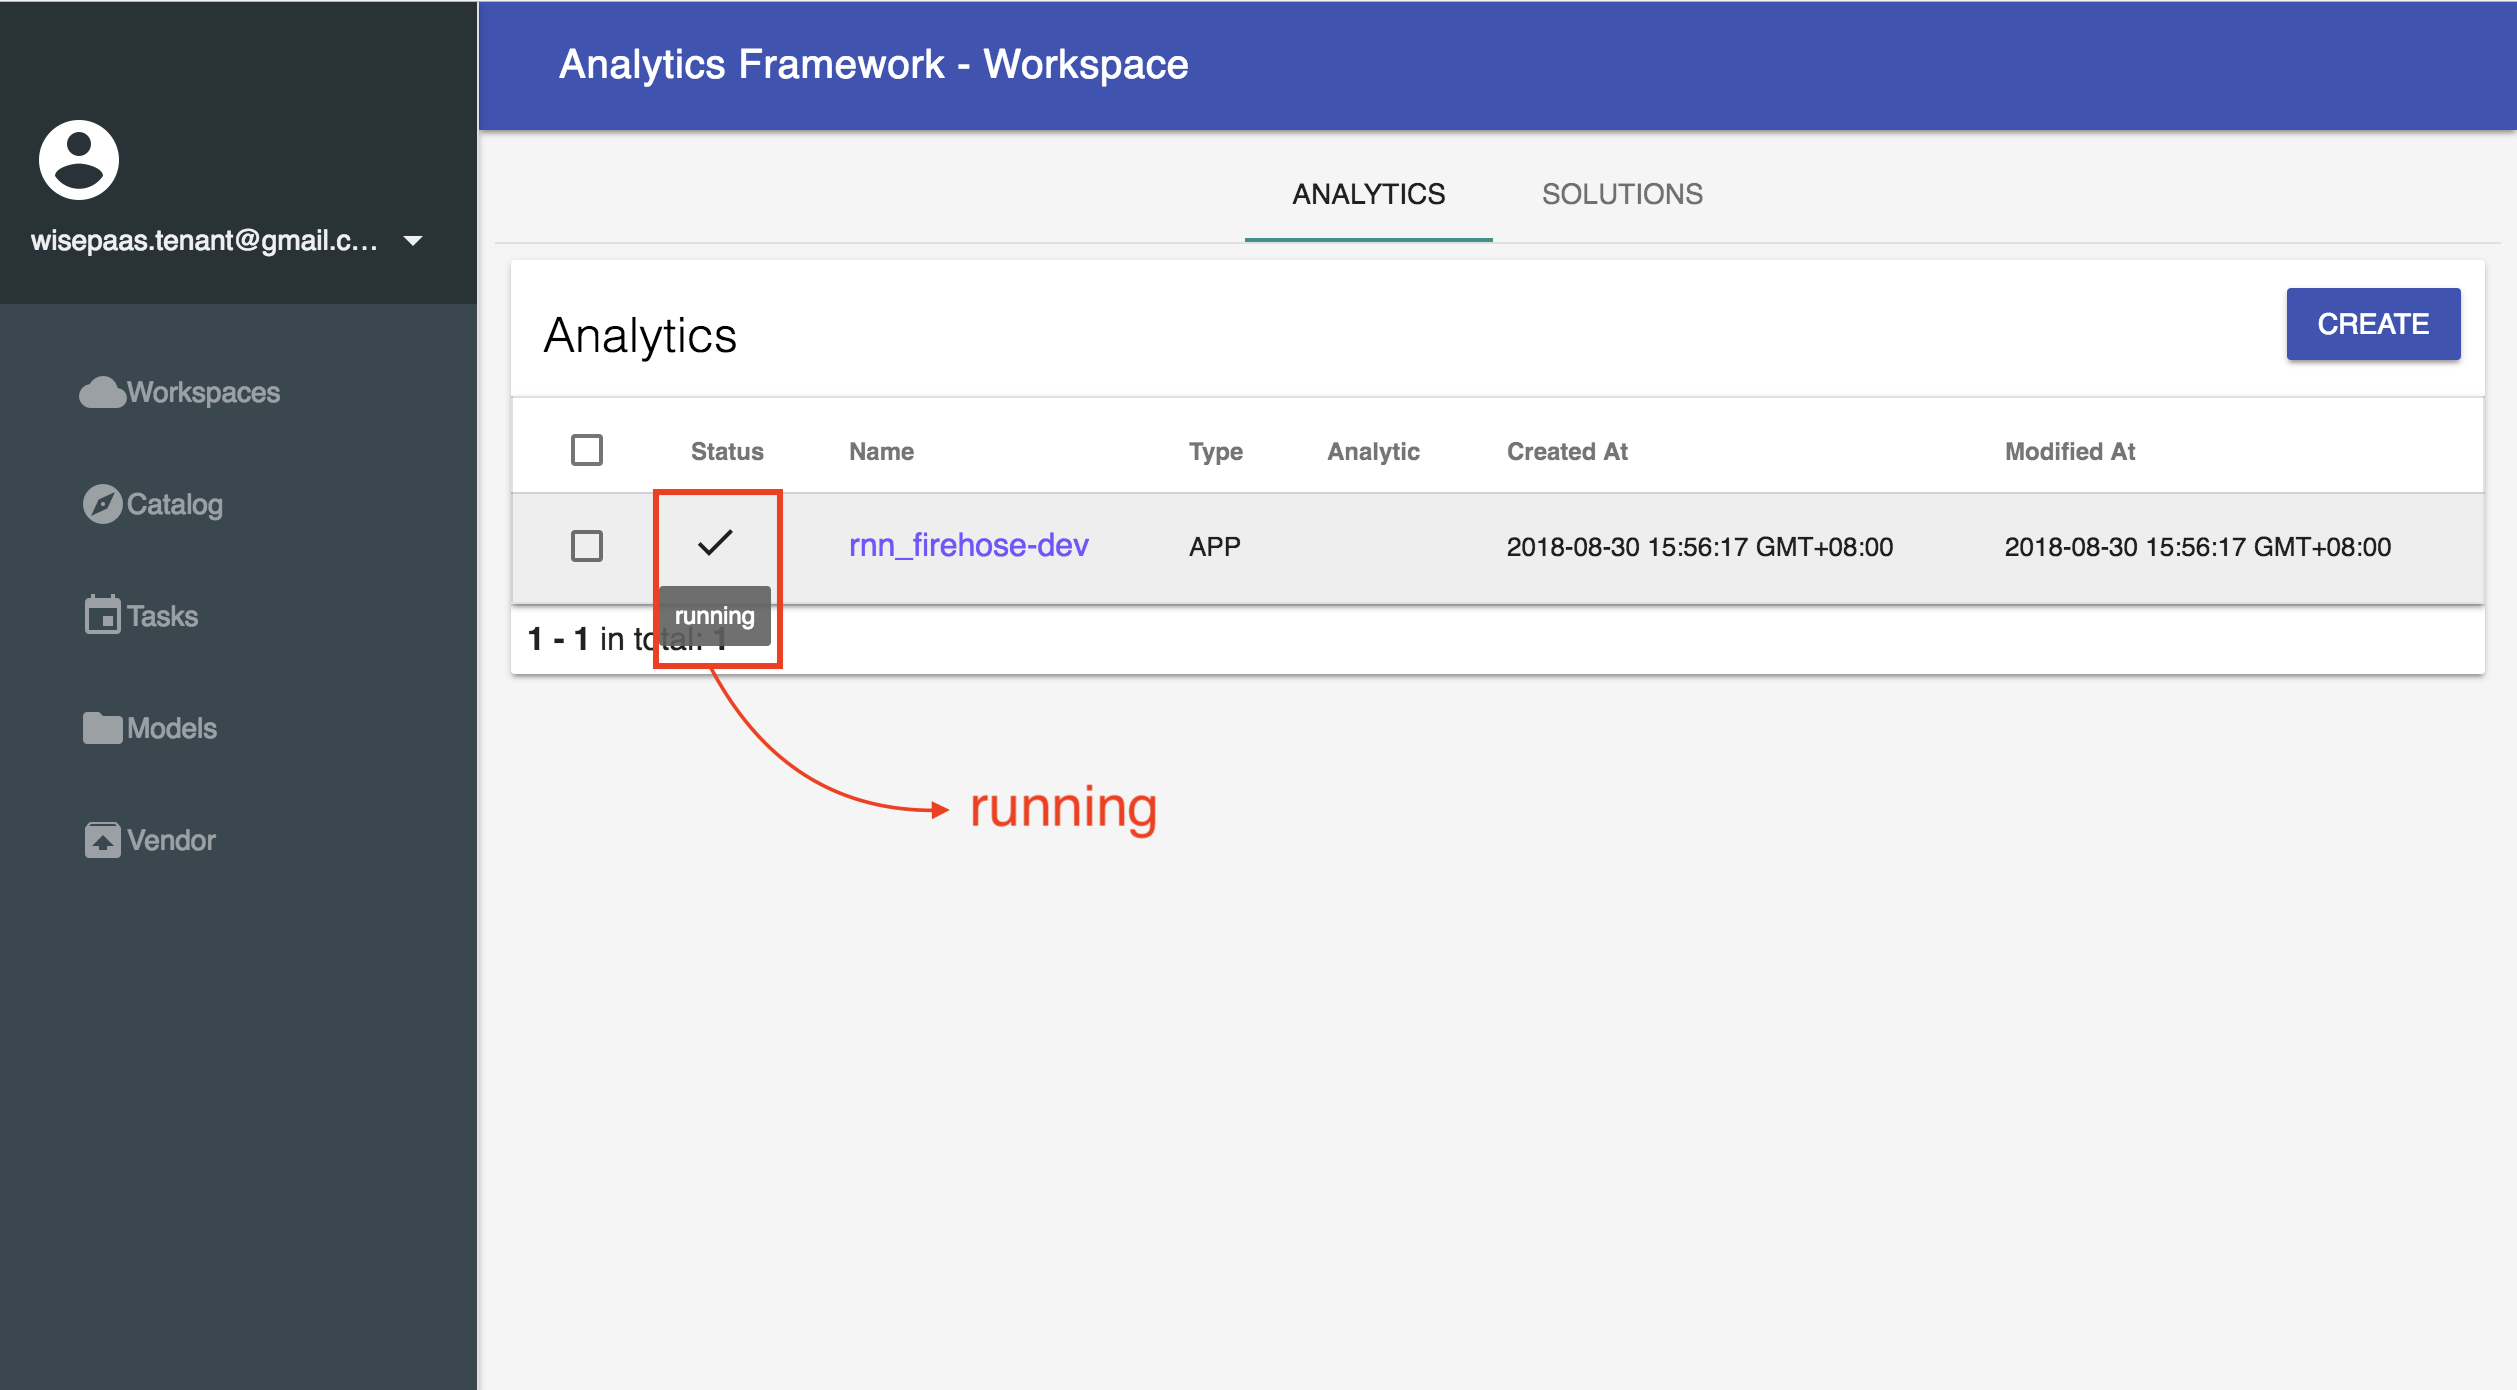
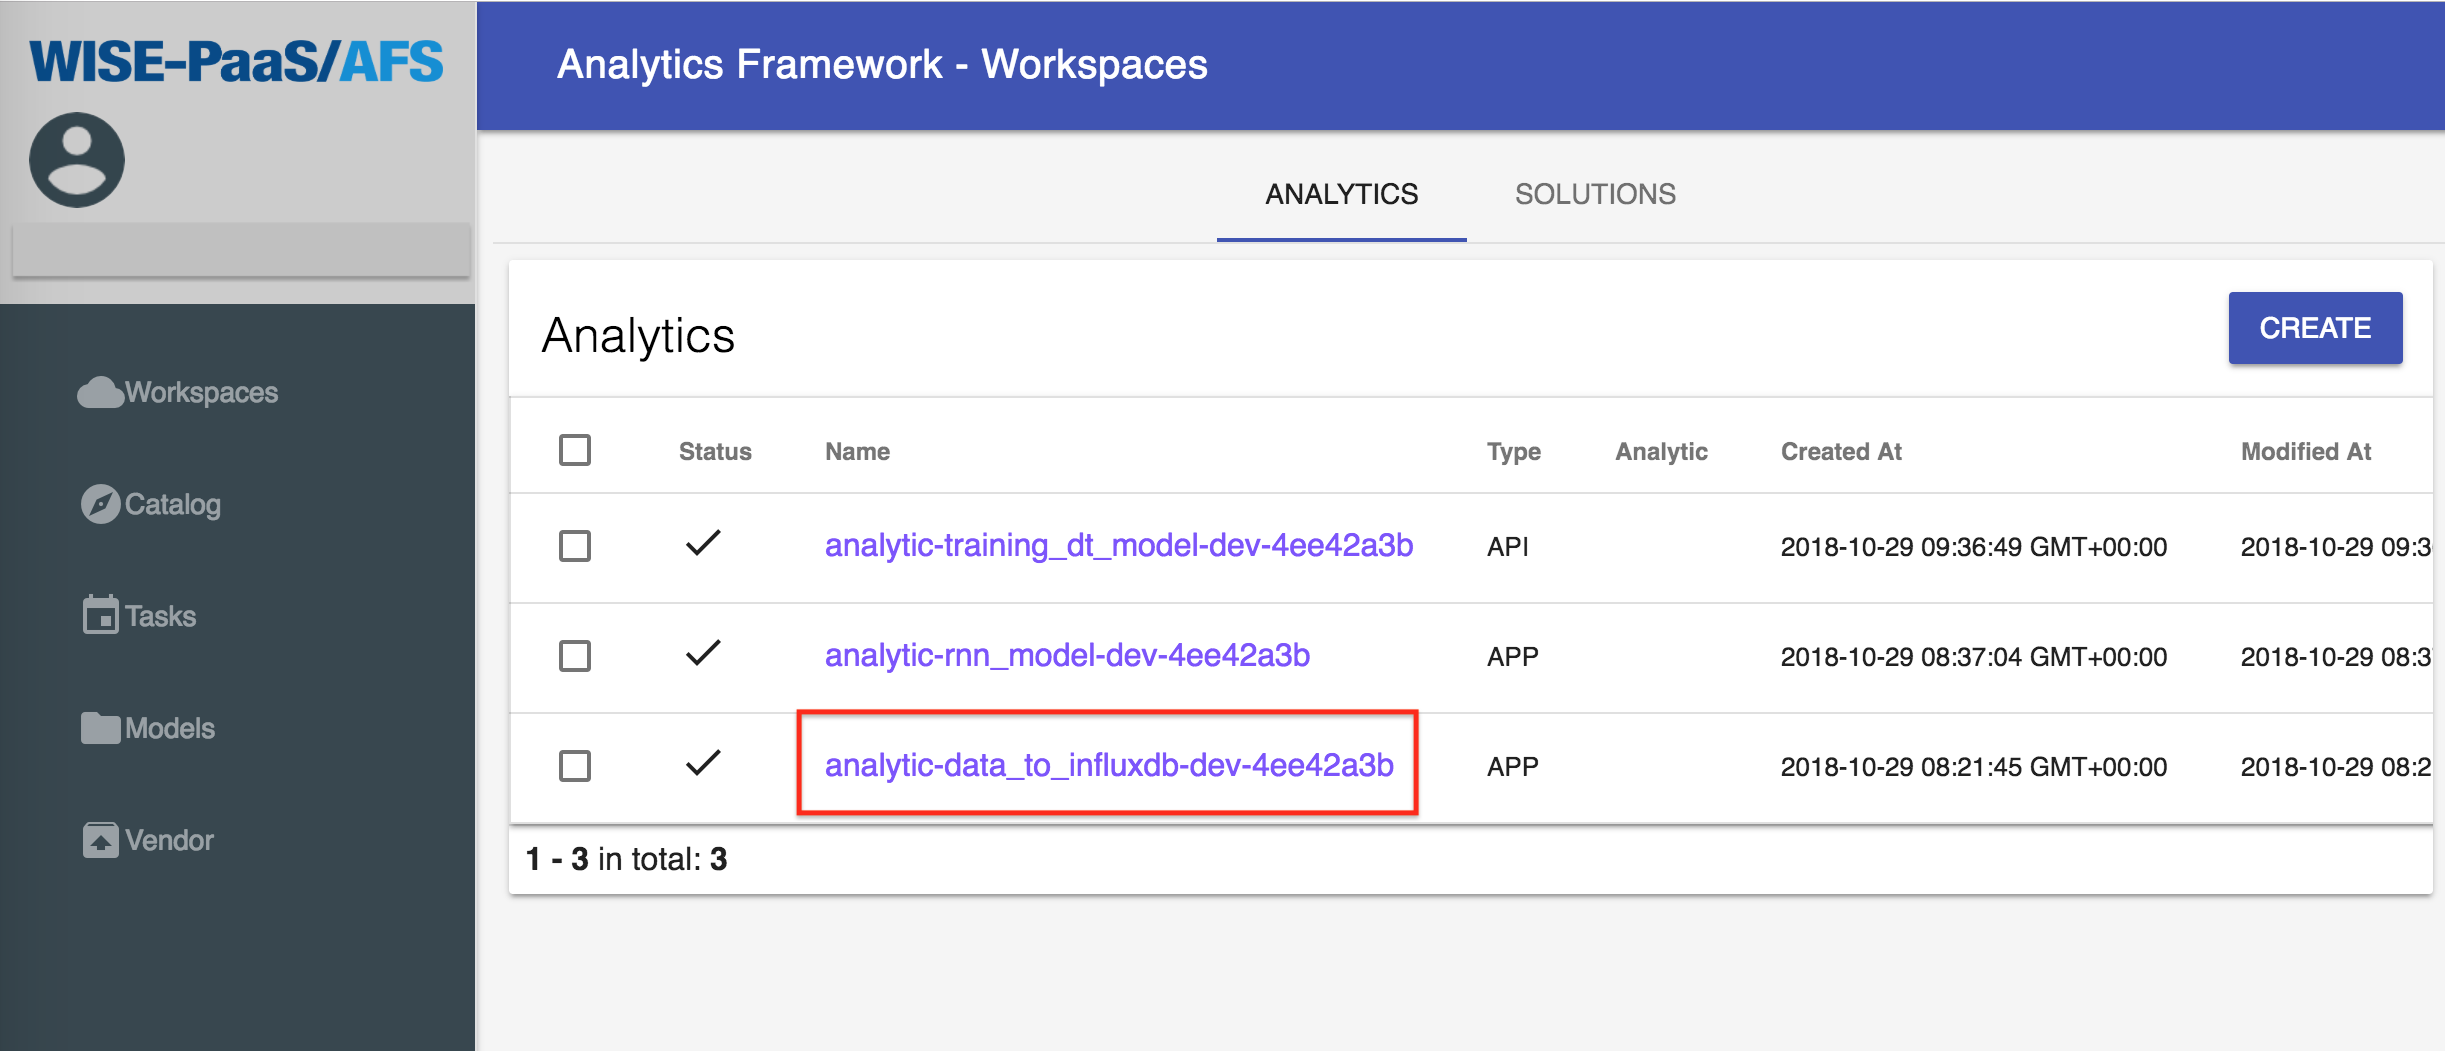
update

diff --git a/docs/portal/scenario.md b/docs/portal/scenario.md
@@ -1,5 +1,3 @@
-
-
 ## SCENARIO 1. AFS Workspaces - Analytics
 #### Pre-condition
 1. Use SSO Tenant/Developer to login Management Portal, and subscribe the Influxdb service instance. (Please refer [Management Portal User Manual](https://portal-technical-stage.wise-paas.com/doc/document-portal.html#ManagementPortal-1).)
@@ -20,16 +18,16 @@
 
 4. Create a new Analytic, Firehose, to upload the training data to database.
 	
-	a. Create a new Analytic, and it's named by rnn_firehose.
+	a. Create a new Analytic, and it's named by "data_to_influxdb".
 		![](../_static/images/portal/scenario/1-7.png)
 		![](../_static/images/portal/scenario/1-8.png)
 		![](../_static/images/portal/scenario/1-9.png)
 
-	b. Copy the [sample code](http://advgitlab.eastasia.cloudapp.azure.com/EI-PaaS-SampleCode/analytics_framework_service/blob/master/notebook/02_support_vector_machine/rnn_firehose-dev.md)to the rnn_firehose, and the code must be divided by cell.
+	b. Copy the [sample code](http://advgitlab.eastasia.cloudapp.azure.com/EI-PaaS-SampleCode/analytics_framework_service/blob/master/notebook/02_support_vector_machine/data_to_influxdb-dev.md)to the data_to_influxdb, and the code must be divided by cell.
 	Note: The **Cell** is like as follows:
 	![](../_static/images/portal/scenario/1-10.png)
 	
-	c. Enter the connecting information to the rnn_firehose.
+	c. Enter the connecting information to the data_to_influxdb.
 	![](../_static/images/portal/scenario/1-11.png)
 	![](../_static/images/portal/scenario/1-12.png)
 

diff --git a/docs/release_note/release_note.md b/docs/release_note/release_note.md
@@ -1,6 +1,16 @@
 # Release Note
 
 ## 1.2.26 (2018-10-26)
+Features:
+* Remove the **Hidden Space**.
+* Add the icon of WISE-PaaS into the AFS UI.
+* Add the default icon into APP status list.
+
+Bugfixed:
+在v1.2.25版本上测试，创建AFS实例失败，返回错误“Your account has been locked because of too many failed attempts to login”
+* Fix when it's failure to creating the AFS service intance  
+【偶发】场景2的training_decisiontree_task创建后，一直无执行结果
+無法設定具有逗號、減號、/n表示法的crontab類型的task
 
 
 ## 1.2.25 (2018-10-19)

diff --git a/docs/developer_guildlines/troubleshooting.md b/docs/developer_guildlines/troubleshooting.md
@@ -1,0 +1,12 @@
+# Troubleshooting
+
+## Jupyter Kernel Die
+修改前，每呼叫一次API，就會佔用512MB的記憶體。
+GET /test
+memory_str = ' ' * 512000000 * 1
+print("OK")
+修改後，在回傳結果前，將變數刪除。
+GET /test
+memory_str = ' ' * 512000000 * 1
+del memory_str
+print("OK")

diff --git a/docs/index.rst b/docs/index.rst
@@ -35,6 +35,14 @@ Welcome to AFS documentation!
 
    portal/scenario
 
+.. toctree::
+   :maxdepth: 3
+   :caption: Developer Guildlines
+   
+   developer_guildlines/startup_inference_dockerxx
+   developer_guildlines/troubleshooting
+   developer_guildlines/
+
 Indices and tables
 ==================
 
